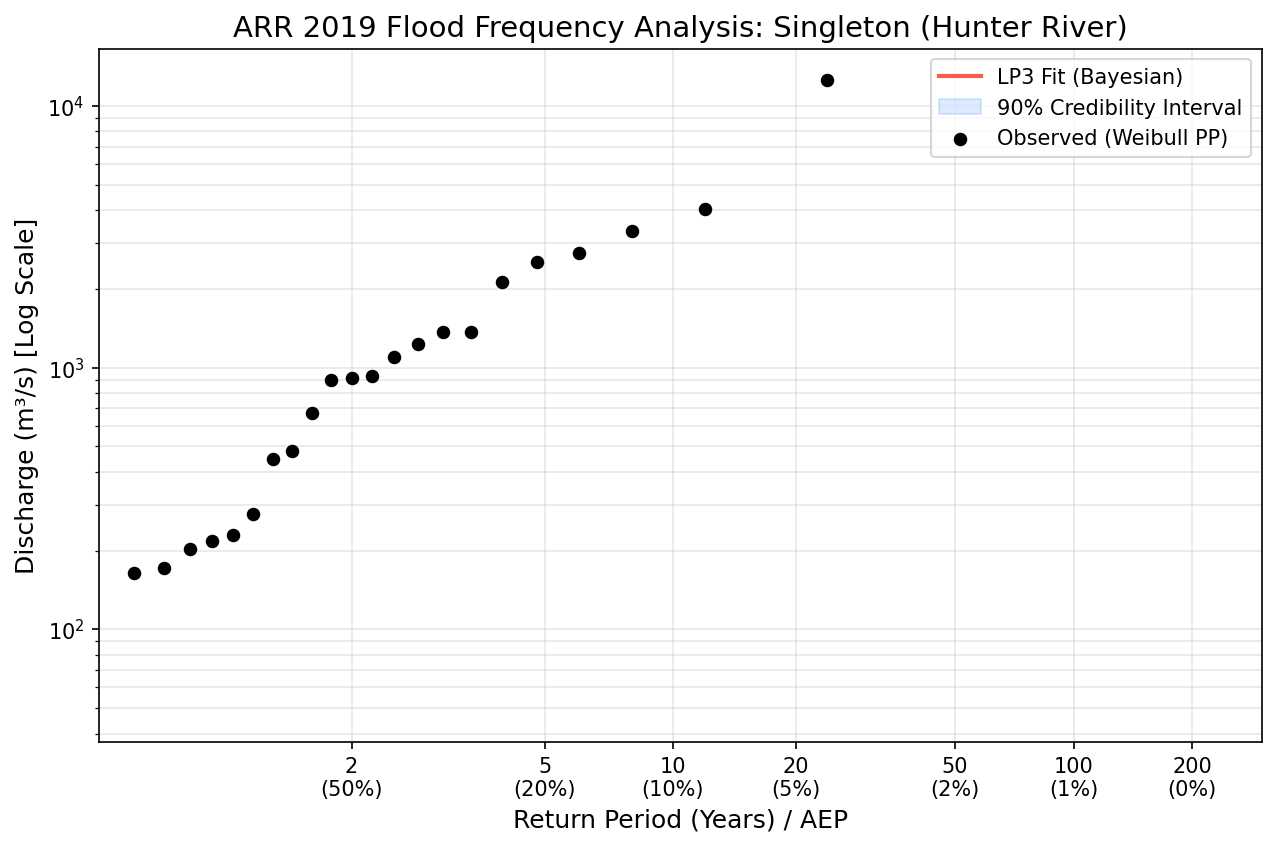
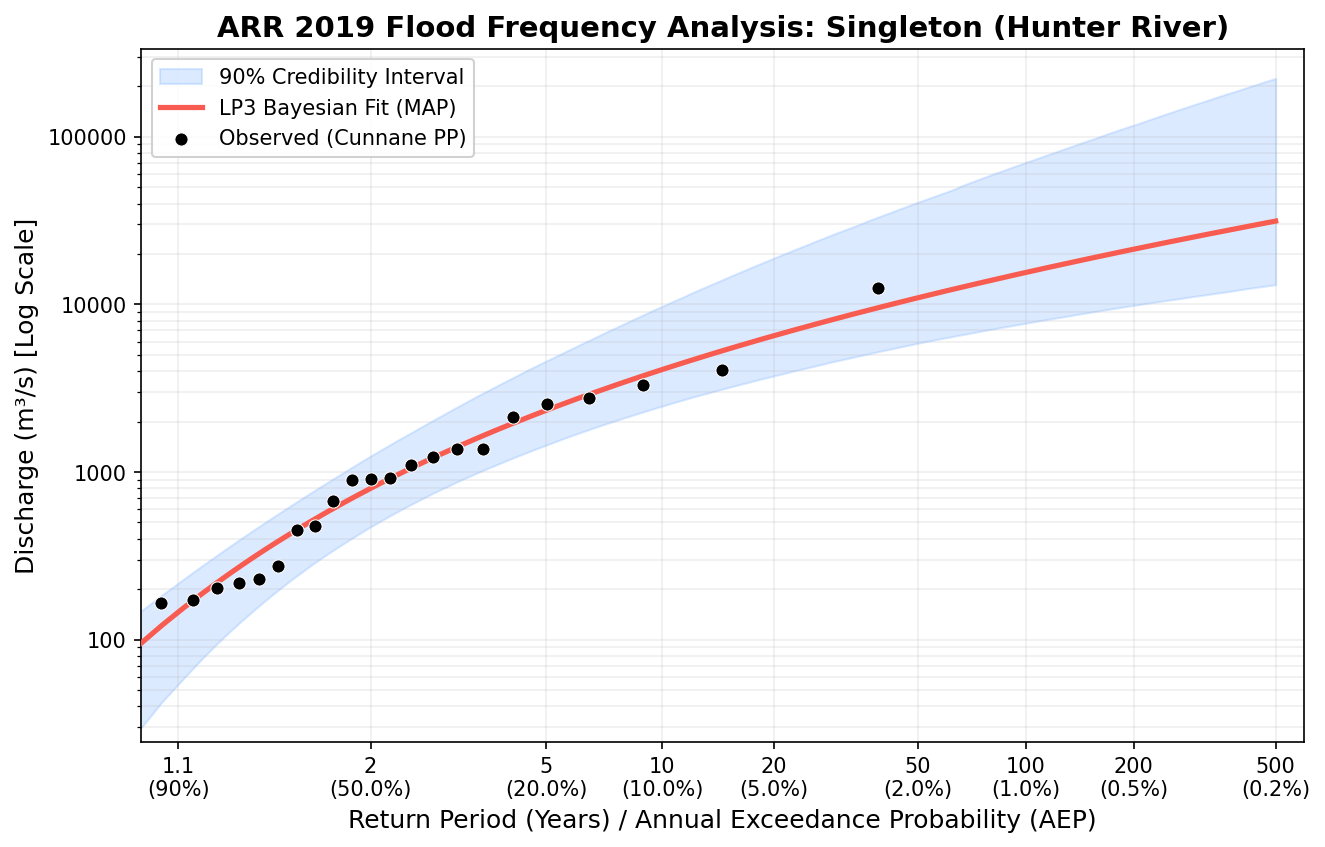
Update pyextremes FFA figure: log scale, dual AEP axis, Cunnane PP, MAP fit
Improved return-period figure now shows log-scale discharge, dual x-axis
(return period + AEP labels), observed data on Cunnane plotting positions,
90% credibility interval, and LP3 Bayesian MAP fit. Caption updated to match.

diff --git a/_posts/2026-03-22-pyextremes-arr2019-flood-frequency-python.md b/_posts/2026-03-22-pyextremes-arr2019-flood-frequency-python.md
@@ -50,7 +50,7 @@ L-moment fitting is computationally stable and less sensitive to extreme outlier
 
 <figure>
   <img src="/images/2026-03_pyextremes-ffa-return-period.png" alt="Flood Frequency Analysis return period curve — Hunter River at Singleton, ARR 2019 LP3 fit">
-  <figcaption>Flood Frequency Analysis: Hunter River at Singleton — ARR 2019 LP3 fit with 95% confidence interval (blue shading). Return period (years) vs discharge (m³/s). Generated using the pyextremes ARR2019_Book3 fork. Analysis: Lindsay Millard.</figcaption>
+  <figcaption>ARR 2019 Flood Frequency Analysis: Singleton (Hunter River). LP3 Bayesian fit (MAP, red line) with 90% credibility interval (blue shading). Observed annual maxima plotted on Cunnane plotting positions. Dual x-axis: return period (years) and Annual Exceedance Probability (AEP). Generated using the pyextremes ARR2019_Book3 fork. Analysis: Lindsay Millard.</figcaption>
 </figure>
 
 ## 2. Multiple Grubbs-Beck Test — PILF Identification
